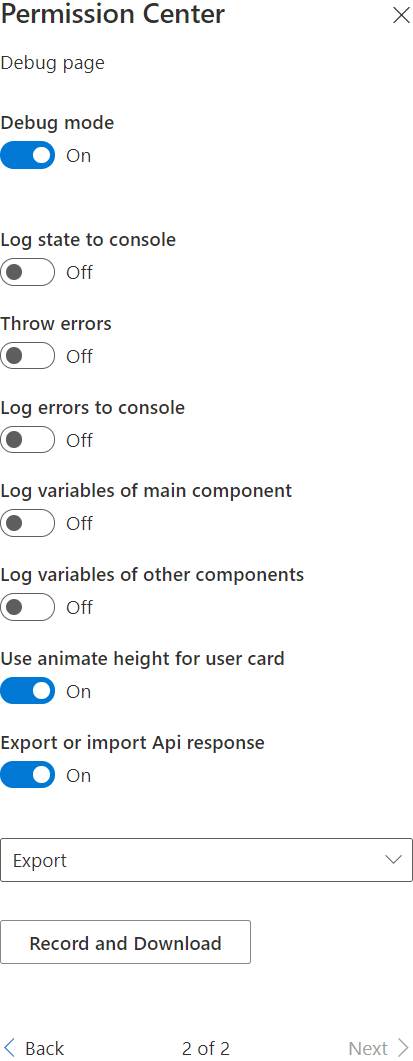
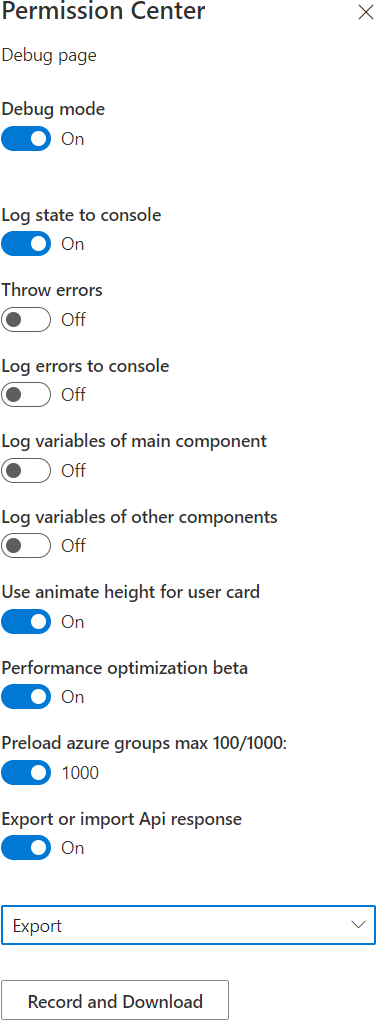
update

diff --git a/content/V1.1.0/_index.md b/content/V1.1.0/_index.md
@@ -13,6 +13,7 @@ Karsten Held, Samuel Gross, 16.04.2021
 - Bugfix: Sharing groups: “Open Item” did not open documents properly.
 - Bugfix: Users tab: If current user has no access to view permissions of SharePoint groups, after user name there was shown empty parenthesis instead of nothing.
 - New feature for debug mode: Record API response. For debugging of a clients bug, replicate the clients API responses. Record them and download as a JSON file.
+- New feature for debug mode: 
 - Improved: Less graph API calls
   - Calls for getting azure group type reduced by getting first 100 azure groups of tenant at one call.
   - Web part configuration: If “Show Site Admins” or “Show Access given directly” = Off, don’t make API call.
@@ -169,6 +170,8 @@ Note: You need to be site owner or site admin to be able to configure the web pa
 
   {{< figure src="/V1.1.0/images/Configuration03.png" class="right250" >}}
 
+  {{< figure src="/V1.1.0/images/Configuration04.png" class="right250" >}}
+
 The debug page is for developers to log the following to the developer console in case of bugs. By default it is switched off.
 
 - Log state: react has a variable called "state". When the web part has finished loading, the last state will be logged.
@@ -178,8 +181,6 @@ The debug page is for developers to log the following to the developer console i
 - Log variables of other components: Enable to log most important variables of most functions of all other react components.
 - Use animate height for user card: Sometimes the user card doesn't expand. Disable it to try to expand it without animation.
 - Export or import Api response: For debugging of a clients bug, replicate the clients API responses. Record them and download as a JSON file.
-
-  {{< figure src="/V1.1.0/images/Configuration04.png" class="right250" >}}
 
 ### Special behaviors: Hidden groups
 
